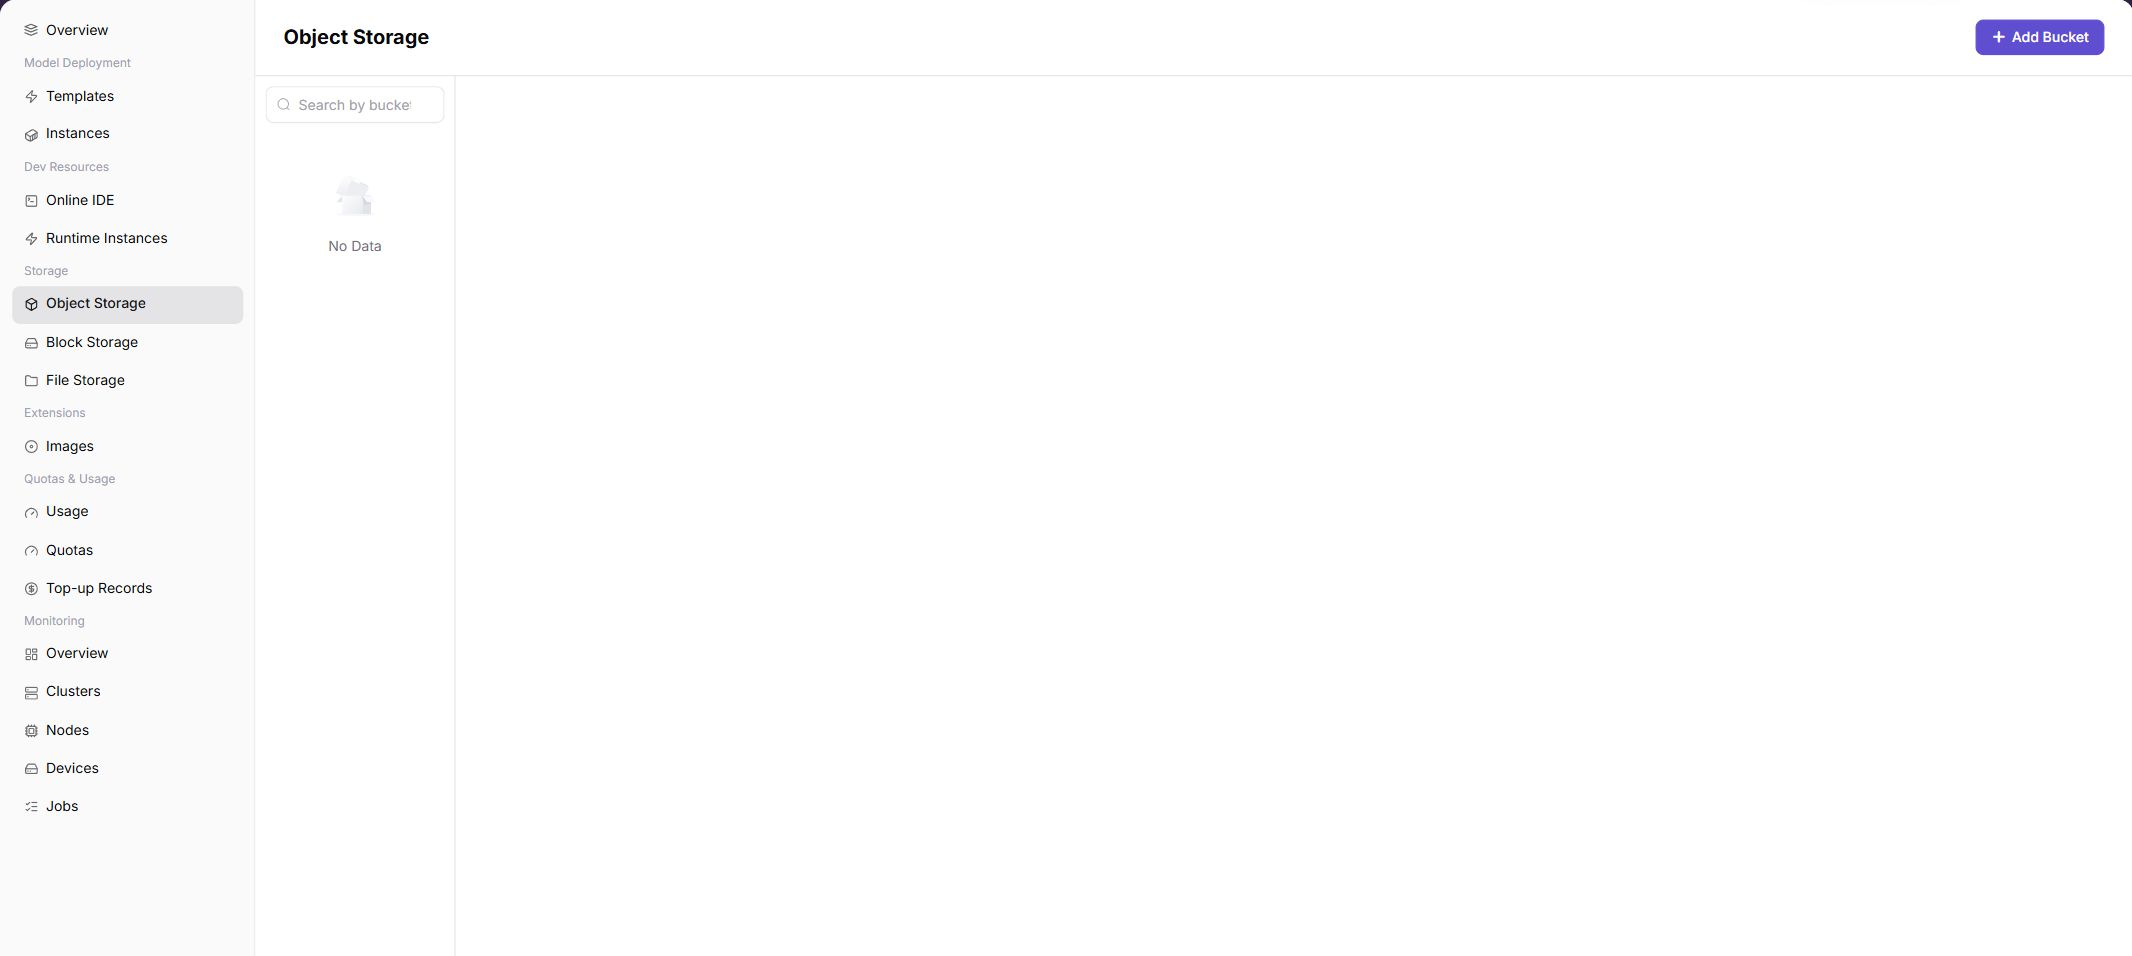
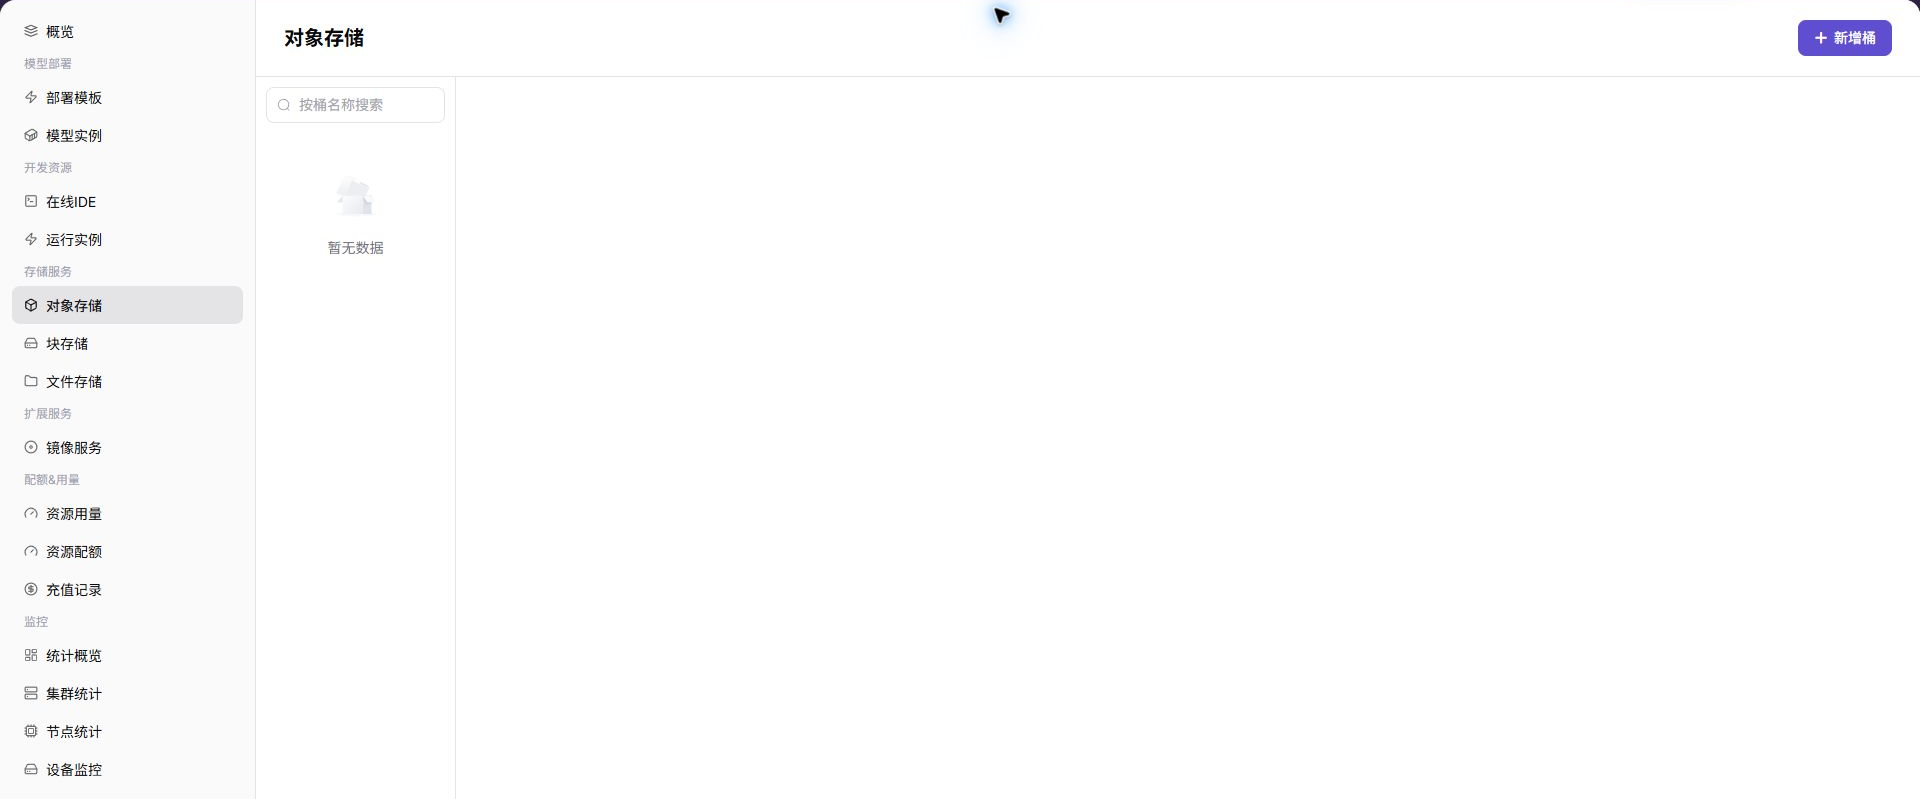
docs: update documentation content

diff --git a/docs/.vitepress/theme/sidebar/en.ts b/docs/.vitepress/theme/sidebar/en.ts
@@ -398,9 +398,9 @@ export const enSidebar: DefaultTheme.Sidebar = {
                   text: "Settings",
                   collapsed: false,
                   items: [
-                    { text: "Meta-models", link: "/usermanual/model-services/operator/settings/meta-models/" },
+                    { text: "Meta Models", link: "/usermanual/model-services/operator/settings/meta-models/" },
                     { text: "Model Sources", link: "/usermanual/model-services/operator/settings/model-source/" },
-                    { text: "Templates", link: "/usermanual/model-services/operator/settings/model-templates/" },
+                    { text: "Model Templates", link: "/usermanual/model-services/operator/settings/model-templates/" },
                     { text: "Tags", link: "/usermanual/model-services/operator/settings/tags/" },
                   ]
                 },
@@ -408,7 +408,7 @@ export const enSidebar: DefaultTheme.Sidebar = {
                   text: "Publishing",
                   collapsed: false,
                   items: [
-                    { text: "App List", link: "/usermanual/model-services/operator/publishing/apps/" },
+                    { text: "Apps", link: "/usermanual/model-services/operator/publishing/apps/" },
                   ]
                 },
                 {
@@ -451,7 +451,7 @@ export const enSidebar: DefaultTheme.Sidebar = {
                   ]
                 },
                 {
-                  text: "Usage & Revenue",
+                  text: "Usage & Earnings",
                   collapsed: false,
                   items: [
                     { text: "Model Earnings", link: "/usermanual/model-services/user/usage-earnings/model-earnings/" },
@@ -578,10 +578,10 @@ export const enSidebar: DefaultTheme.Sidebar = {
                     { text: "Spec Metrics", link: "/usermanual/ai-infra-on-prem/operator/resource-pools/spec-metrics/" },
                     { text: "Resource Specs", link: "/usermanual/ai-infra-on-prem/operator/resource-pools/resource-specs/" },
                     { text: "Images", link: "/usermanual/ai-infra-on-prem/operator/resource-pools/images/" },
-                    { text: "Image Component", link: "/usermanual/ai-infra-on-prem/operator/resource-pools/image-services/" },
-                    { text: "Object Storage Component", link: "/usermanual/ai-infra-on-prem/operator/resource-pools/object-storage/" },
-                    { text: "Block Storage Component", link: "/usermanual/ai-infra-on-prem/operator/resource-pools/block-storage/" },
-                    { text: "File Storage Component", link: "/usermanual/ai-infra-on-prem/operator/resource-pools/file-storage/" },
+                    { text: "Image Services", link: "/usermanual/ai-infra-on-prem/operator/resource-pools/image-services/" },
+                    { text: "Object Storage", link: "/usermanual/ai-infra-on-prem/operator/resource-pools/object-storage/" },
+                    { text: "Block Storage", link: "/usermanual/ai-infra-on-prem/operator/resource-pools/block-storage/" },
+                    { text: "File Storage", link: "/usermanual/ai-infra-on-prem/operator/resource-pools/file-storage/" },
                   ],
                 },
                 {
@@ -604,13 +604,6 @@ export const enSidebar: DefaultTheme.Sidebar = {
                   ],
                 },
                 {
-                  text: "System",
-                  collapsed: false,
-                  items: [
-                    { text: "System Setting", link: "/usermanual/ai-infra-on-prem/operator/system/system-setting/" },
-                  ],
-                },
-                {
                   text: "Monitoring",
                   collapsed: false,
                   items: [
@@ -619,6 +612,13 @@ export const enSidebar: DefaultTheme.Sidebar = {
                     { text: "Nodes", link: "/usermanual/ai-infra-on-prem/operator/monitoring/nodes/" },
                     { text: "Devices", link: "/usermanual/ai-infra-on-prem/operator/monitoring/devices/" },
                     { text: "Jobs", link: "/usermanual/ai-infra-on-prem/operator/monitoring/jobs/" },
+                  ],
+                },
+                {
+                  text: "System",
+                  collapsed: false,
+                  items: [
+                    { text: "System Setting", link: "/usermanual/ai-infra-on-prem/operator/system/system-setting/" },
                   ],
                 },
               ],
@@ -711,9 +711,9 @@ export const enSidebar: DefaultTheme.Sidebar = {
                   text: "Customer Billing",
                   collapsed: false,
                   items: [
+                    { text: "Business Units", link: "/usermanual/billing/operator/customer-billing/business-units/" },
                     { text: "Customer Overview", link: "/usermanual/billing/operator/customer-billing/customer-overview/" },
                     { text: "Top-up Orders", link: "/usermanual/billing/operator/customer-billing/top-up-orders/" },
-                    { text: "Business Units", link: "/usermanual/billing/operator/customer-billing/business-units/" },
                   ],
                 },
                 {
@@ -742,8 +742,8 @@ export const enSidebar: DefaultTheme.Sidebar = {
                   text: "Billing",
                   collapsed: false,
                   items: [
-                    { text: "Quota Governance", link: "/usermanual/billing/user/billing/quota-governance/" },
                     { text: "Overview", link: "/usermanual/billing/user/billing/overview/" },
+                    { text: "Quota Governance", link: "/usermanual/billing/user/billing/quota-governance/" },
                     { text: "Transactions", link: "/usermanual/billing/user/billing/transactions/" },
                     { text: "Top-up Orders", link: "/usermanual/billing/user/billing/top-up-orders/" },
                     { text: "Monthly Bill", link: "/usermanual/billing/user/billing/monthly-bill/" },

diff --git a/docs/.vitepress/theme/sidebar/zh.ts b/docs/.vitepress/theme/sidebar/zh.ts
@@ -498,7 +498,7 @@ export const zhSidebar: DefaultTheme.Sidebar = {
                   ]
                 },
                 {
-                  text: '访问管理',
+                  text: '接入管理',
                   collapsed: false,
                   items: [
                     { text: '接入管理', link: '/zh-CN/usermanual/ai-infra-on-cloud/user/access-management/access-accounts/' },
@@ -555,13 +555,6 @@ export const zhSidebar: DefaultTheme.Sidebar = {
                   ],
                 },
                 {
-                  text: '系统',
-                  collapsed: false,
-                  items: [
-                    { text: '系统设置', link: '/zh-CN/usermanual/ai-infra-on-prem/operator/system/system-setting/' },
-                  ],
-                },
-                {
                   text: '监控',
                   collapsed: false,
                   items: [
@@ -570,6 +563,13 @@ export const zhSidebar: DefaultTheme.Sidebar = {
                     { text: '节点统计', link: '/zh-CN/usermanual/ai-infra-on-prem/operator/monitoring/nodes/' },
                     { text: '设备监控', link: '/zh-CN/usermanual/ai-infra-on-prem/operator/monitoring/devices/' },
                     { text: '作业监控', link: '/zh-CN/usermanual/ai-infra-on-prem/operator/monitoring/jobs/' },
+                  ],
+                },
+                {
+                  text: '系统',
+                  collapsed: false,
+                  items: [
+                    { text: '系统设置', link: '/zh-CN/usermanual/ai-infra-on-prem/operator/system/system-setting/' },
                   ],
                 },
               ],
@@ -662,9 +662,9 @@ export const zhSidebar: DefaultTheme.Sidebar = {
                   text: '客户账务',
                   collapsed: false,
                   items: [
+                    { text: '业务线', link: '/zh-CN/usermanual/billing/operator/customer-billing/business-units/' },
                     { text: '客户概览', link: '/zh-CN/usermanual/billing/operator/customer-billing/customer-overview/' },
                     { text: '客户充值单', link: '/zh-CN/usermanual/billing/operator/customer-billing/top-up-orders/' },
-                    { text: '业务线', link: '/zh-CN/usermanual/billing/operator/customer-billing/business-units/' },
                   ],
                 },
                 {
@@ -693,8 +693,8 @@ export const zhSidebar: DefaultTheme.Sidebar = {
                   text: '我的账务',
                   collapsed: false,
                   items: [
-                    { text: '额度治理', link: '/zh-CN/usermanual/billing/user/billing/quota-governance/' },
                     { text: '账户概览', link: '/zh-CN/usermanual/billing/user/billing/overview/' },
+                    { text: '额度治理', link: '/zh-CN/usermanual/billing/user/billing/quota-governance/' },
                     { text: '流水明细', link: '/zh-CN/usermanual/billing/user/billing/transactions/' },
                     { text: '充值订单', link: '/zh-CN/usermanual/billing/user/billing/top-up-orders/' },
                     { text: '月度账单', link: '/zh-CN/usermanual/billing/user/billing/monthly-bill/' },
@@ -757,7 +757,7 @@ export const zhSidebar: DefaultTheme.Sidebar = {
                   text: 'API 流控',
                   collapsed: false,
                   items: [
-                    { text: '概览', link: '/zh-CN/usermanual/settings/operator/api-rate-control/overview/' },
+                    { text: 'Overview', link: '/zh-CN/usermanual/settings/operator/api-rate-control/overview/' },
                     { text: '规则管理', link: '/zh-CN/usermanual/settings/operator/api-rate-control/rule-management/' },
                     { text: '观测审计', link: '/zh-CN/usermanual/settings/operator/api-rate-control/observability-audit/' },
                     { text: '节点缓存', link: '/zh-CN/usermanual/settings/operator/api-rate-control/node-cache/' },
@@ -794,7 +794,7 @@ export const zhSidebar: DefaultTheme.Sidebar = {
                   text: '租户&设置',
                   collapsed: false,
                   items: [
-                    { text: '租户设置', link: '/zh-CN/usermanual/settings/user/organizations/org-settings/' },
+                    { text: '组织设置', link: '/zh-CN/usermanual/settings/user/organizations/org-settings/' },
                   ],
                 },
                 {

diff --git a/docs/zh-CN/usermanual/billing/index.md b/docs/zh-CN/usermanual/billing/index.md
@@ -55,10 +55,10 @@
 
 | 目标 | 推荐入口 | 下一步 |
 | --- | --- | --- |
-| 查看个人余额、流水或充值 | [用户账务](./user/billing/) | 先看账务总览，再进入流水、充值订单或月度账单。 |
-| 核对客户账户和业务线 | [客户账务](./operator/customer-billing/) | 查客户总览、充值订单和业务线配置。 |
-| 排查结算或金额不一致 | [运营财务](./operator/finance-operations/) | 查今日任务、月结总览、结算单、财务账户和巡检中心。 |
-| 管理授权额度 | [License](./operator/license/) | 区分授权额度、有效期和账务余额。 |
+| 查看个人余额、流水或充值 | [用户账务](./user/billing/overview/) | 先看账务总览，再进入流水、充值订单或月度账单。 |
+| 核对客户账户和业务线 | [客户账务](./operator/customer-billing/customer-overview/) | 查客户总览、充值订单和业务线配置。 |
+| 排查结算或金额不一致 | [运营财务](./operator/finance-operations/today-tasks/) | 查今日任务、月结总览、结算单、财务账户和巡检中心。 |
+| 管理授权额度 | [License](./operator/license/license/) | 区分授权额度、有效期和账务余额。 |
 
 ## 推荐阅读路径
 

diff --git a/docs/usermanual/ai-infra-on-prem/operator/monitoring/overview/index.md b/docs/usermanual/ai-infra-on-prem/operator/monitoring/overview/index.md
@@ -12,7 +12,7 @@ Updated: 2026-07-08
 | Item | Content |
 | --- | --- |
 | Applicable role | Operator |
-| Navigation path | AI Infrastructure > On-Prem > Monitoring > Statistics Overview |
+| Navigation path | AI Infrastructure > On-Prem > Monitoring > Overview |
 | Page route | `/powerone/monitor/overview` |
 | Managed objects | Resource pool overview, cluster count, node status, job distribution, and resource capacity |
 | Typical use | Daily inspection, quick capacity risk discovery, and entry to drill-down pages |
@@ -51,7 +51,7 @@ The following figure shows the statistics overview page.
 
 #### Procedure
 
-1. Go to `AI Infrastructure > On-Prem > Monitoring > Statistics Overview`.
+1. Go to `AI Infrastructure > On-Prem > Monitoring > Overview`.
 2. Confirm the region in the upper-right corner and page filters.
 3. View lists, charts, or statistic cards.
 4. Focus on abnormal status, high watermarks, long periods without updates, or data inconsistent with expectations.
@@ -59,7 +59,7 @@ The following figure shows the statistics overview page.
 
 #### Monitoring Overview
 
-1. Go to `AI Infrastructure > On-Prem > Monitoring > Statistics Overview`.
+1. Go to `AI Infrastructure > On-Prem > Monitoring > Overview`.
 2. View the overall running status of resource pools, clusters, nodes, devices, and jobs.
 3. Focus on total resources, used resources, remaining resources, online status, abnormal status, and trend metrics.
 4. If the page provides time range, region, cluster, or resource type filters, select the filters before reviewing statistics.

diff --git a/docs/usermanual/ai-infra-on-prem/user/monitoring/overview/index.md b/docs/usermanual/ai-infra-on-prem/user/monitoring/overview/index.md
@@ -12,7 +12,7 @@ Updated: 2026-07-08
 | Item | Content |
 | --- | --- |
 | Applicable role | Regular user |
-| Navigation path | AI Infrastructure > On-Prem > Monitoring > Statistics Overview |
+| Navigation path | AI Infrastructure > On-Prem > Monitoring > Overview |
 | Page route | `/powerone/user-monitor/overview` |
 | Managed objects | Resource pool monitoring overview, instance runtime status, and key resource trends |
 | Typical use | Quickly determine whether the selected region has visible monitoring data and enter drill-down pages |
@@ -58,7 +58,7 @@ The page displays statistics overview capability for the selected region. When t
 
 #### Procedure
 
-1. Go to `AI Infrastructure > On-Prem > Monitoring > Statistics Overview`.
+1. Go to `AI Infrastructure > On-Prem > Monitoring > Overview`.
 2. Confirm the region in the upper-right corner.
 3. Filter by time, status, or keyword provided by the page.
 4. View charts, lists, or prompt information.